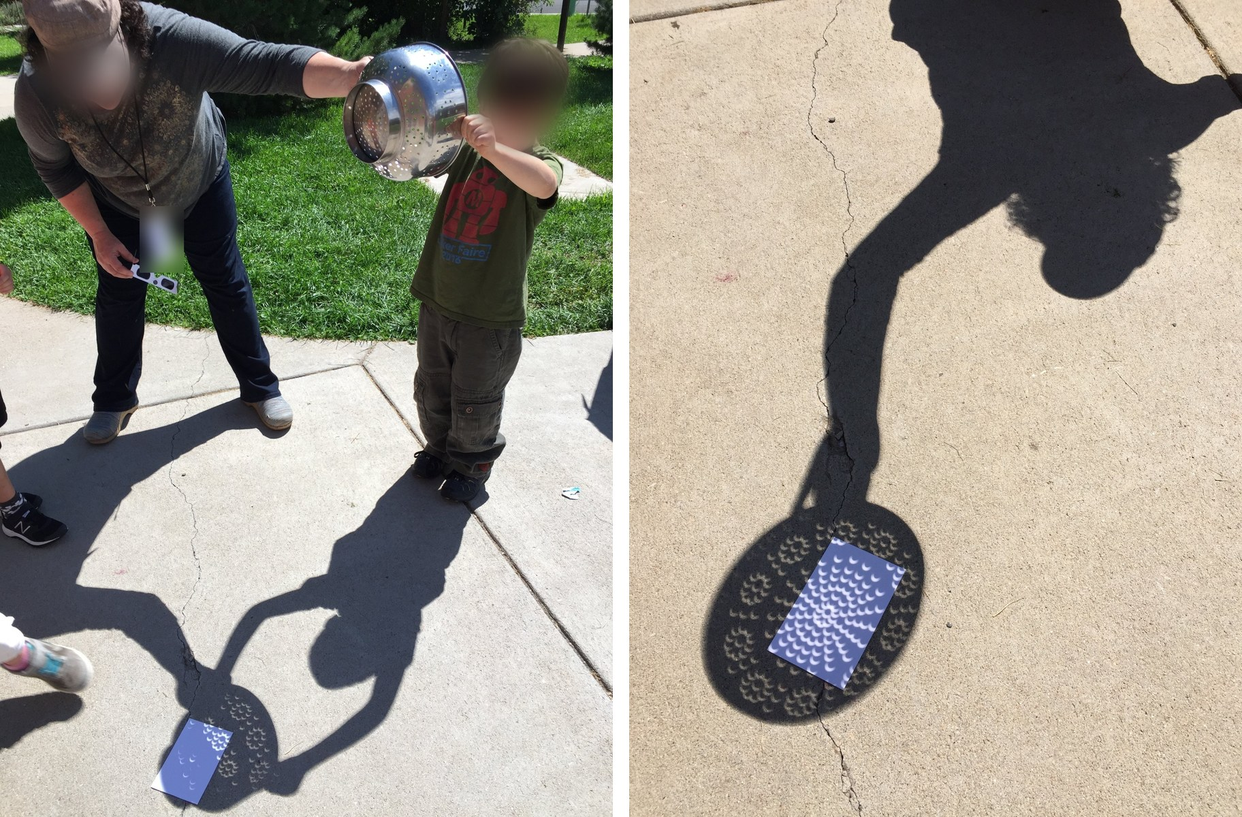
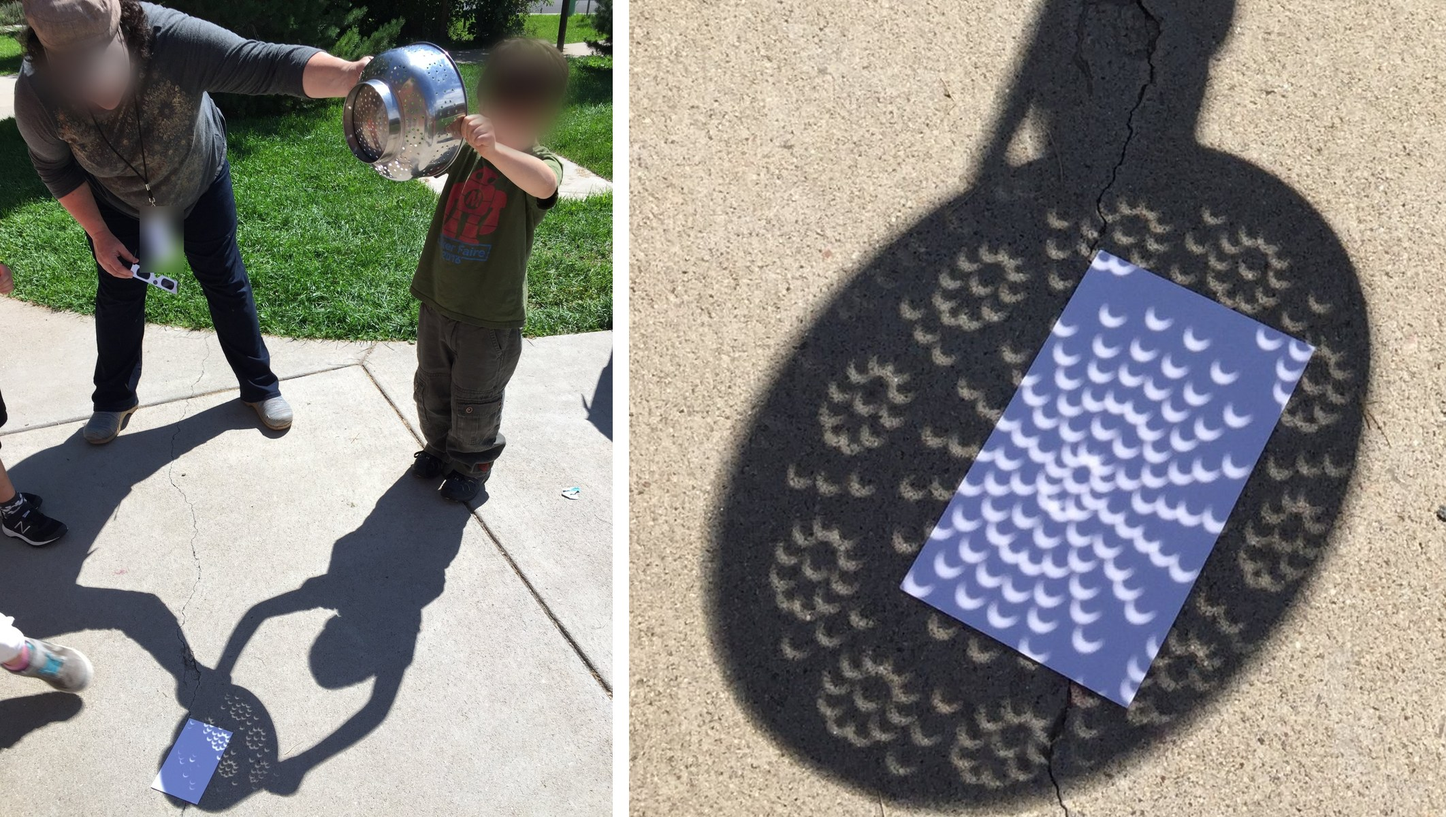
Zoom in on the colander shadow in the side-by-side photo

diff --git a/index.md b/index.md
@@ -92,7 +92,7 @@ They're not all scientifically accurate. One kid drew a smiling sun with rays. B
 
 :::{figure} images/colander_pair_2017.jpg
 :label: fig-colander
-:alt: Two photos side by side. Left: an adult and a child holding a metal colander over a sidewalk; in its shadow, a card and the pavement are covered with small crescents. Right: the shadow of a person holding a colander; on a card in the colander's shadow, dozens of crescents are arranged in the colander's hole pattern.
+:alt: Two photos side by side. Left: an adult and a child holding a metal colander over a sidewalk; in its shadow, a card and the pavement are covered with small crescents. Right: a close-up of the colander's shadow on the sidewalk; on a card inside it, dozens of crescents are arranged in the colander's hole pattern.
 
 **Left:** the setup: one kitchen colander, one helper, one index card. **Right:** the result. Each hole makes its own crescent, and together they reproduce the colander's hole pattern. The arrangement comes from the colander; the shape of each spot comes from the Sun.
 :::
